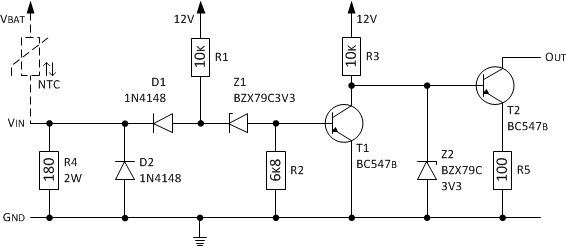
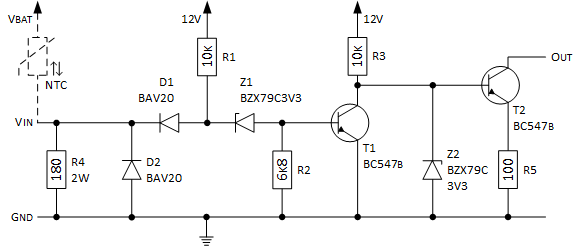
Update

diff --git a/pages/versorgungsspannung.md b/pages/versorgungsspannung.md
@@ -14,25 +14,27 @@ Für einfache Anwendungen reicht es, nur gegen zerstörerische Spannungen abzubl
 
 Um Störungen mit hohen Frequenzen von der Schaltung fernzuhalten, ist ganz vorne am Eingang ein Keramikkondensator von 1..10nF zwischen Versorgungsspannung und Masse sinnvoll, der diese Frequenzen dämpft. Um es noch _sauberer_ zu haben, könnte man anstatt den Sicherungswiderstand eine Drossel mit 47μH setzen.
 
-Um länger höhere Spannungen von der Schaltung fernzuhalten, wird eine Überspannungsschutzdiode (TVS-Diode, Transil) eingesetzt, die erst bei einer Spannung von 28,5V (Spannung für den [Jumpstart](https://en.wikipedia.org/wiki/Jump_start_(vehicle)) ist 26V und der [Load Dump](http://de.wikipedia.org/wiki/Load_Dump) wird mit 27V angesetzt) leitet und bei vollem Ableitstrom nicht mehr als die maximal erlaubte Spannung der Bauteile an die Schaltung lässt (das Maximum liegt bei 41,5V mit einem Stromimpuls von 14,4A siehe [Datenblatt](http://www.diodes.com/assets/Datasheets/ds21502.pdf)).
+Um länger höhere Spannungen von der Schaltung fernzuhalten, wird eine Überspannungsschutzdiode (TVS-Diode, Transil) vom Typ P6KE30A (Unidirektional) eingesetzt, die erst bei einer Spannung von 28,5V (Spannung für den [Jumpstart](https://en.wikipedia.org/wiki/Jump_start_(vehicle)) ist 26V und der [Load Dump](http://de.wikipedia.org/wiki/Load_Dump) wird mit 27V angesetzt) leitet und bei vollem Ableitstrom nicht mehr als die maximal erlaubte Spannung der Bauteile an die Schaltung lässt (das Maximum liegt bei 41,5V mit einem Stromimpuls von 14,4A, siehe Datenblatt: [P6KE.pdf](http://www.st.com/resource/en/datasheet/p6ke.pdf)).
 
-Eine Schaltung die zwar keine Prüfung nach ISO (7637-1 von 1990 für ein 12V-System) besteht, aber viele Faktoren bereits berücksichtigt, könnte wie folgt aussehen:
+Eine Schaltung die zwar keine Prüfung nach ISO (7637-1 von 1990 für ein 12V-System) besteht, aber ein paar Faktoren bereits berücksichtigt, könnte wie folgt aussehen:
 
 ![KFZ-Versorgungsspannung (gesamt)](../images/Versorgungsspannung.png)
 
-Die TVS-Diode P6KE30A (Unidirektional) hat eine Durchbruchspannung von 28,5V, leitet sicher bei 31,5V und begrenzt die maximale Spannung, wenn die Quelle mehr liefert. Nachfolgende Bauteile sollten bis zu ca. 35V vertragen (der dann abzuleitende Strom ist dann schon so hoch, dass der Sicherungswiderstand vorher _auslöst_). Bei Einsatz einer TVS-Diode kann der Keramikkondensator am Eingang ein 1nF/50V und der Elko ein Kondensator mit z.B. 100μF/50V sein. Da höhere Ströme durch die P6KE30A abfließen können, wurde die Diode 1N4003 ausgewählt, die für ein Strom If bis 1A genutzt werden kann. Zudem hat Sie eine Sperrspannung bis 200V und weist eine Durchlassspannung UF von maximal 1V auf.
+Die TVS-Diode P6KE30A hat eine Durchbruchspannung von 28,5V, leitet sicher bei 31,5V und begrenzt die maximale Spannung, wenn die Quelle mehr liefert. Nachfolgende Bauteile sollten bis zu ca. 35V vertragen (der dann abzuleitende Strom ist dann schon so hoch, dass der Sicherungswiderstand vorher _auslöst_). Bei Einsatz einer TVS-Diode kann der Keramikkondensator am Eingang ein 1nF/50V und der Elko ein Kondensator mit z.B. 100μF/50V sein. Da höhere Ströme durch die P6KE30A abfließen können, wurde die Diode BYV27-200 (Datenblatt: [BYV27-200.pdf](https://www.vishay.com/docs/86042/byv27.pdf)) ausgewählt, die für ein Strom If bis 2A genutzt werden kann. Zudem hat Sie eine Sperrspannung bis 200V und weist eine Durchlassspannung UF von maximal 1V auf.
 
 ![KFZ-Versorgungsspannung Abb. 2](../images/Versorgungsspannung_2.png)
 
-Eine Stabilisierung mittles Z-Diode (Datenblatt: [BZX79.pdf](http://www.nxp.com/documents/data_sheet/BZX79.pdf)) im Regelkreis und Transistor in Kollektorschaltung (Datenblatt: [BD139.pdf](http://www.onsemi.com/pub/Collateral/BD139-D.PDF)) ist einfach und ausreichend für die angeschlossenen Schaltungseinheiten. Der Spannungsausgang an Pin 9 stellt eine stabile Spannung bei wechselnden Laststrombedingungen zur Verfügung. Der maximal benötigte Ausgangsstrom an Pin 9 soll 200mA betragen. 
+Der Spannungsausgang an Pin 9 gibt nicht stabilisierte Spannung von ca. 12V aus. An Pin 7.1 steht eine stabile Spannung von ca. 5V bei wechselnden Laststrombedingungen zur Verfügung. Der maximal benötigte Ausgangsstrom an Pin 7.1 soll bis zu 20mA betragen. Eine Stabilisierung mittles Z-Diode (Datenblatt: [BZX79.pdf](http://www.nxp.com/documents/data_sheet/BZX79.pdf)) ist einfach und ausreichend für die angeschlossenen Schaltungseinheiten, die 5V benötigen. 
 
-Indem ein Teil der Ausgangsspannung über eine Regelschaltung bestehend aus Spannungsteiler R6 und R7, Transistor T1 und Z-Diode D34 geleitet wird, werden Spannungen größer 12,1V heruntergeregelt. Der Spannungsteiler dient zum Einstellen des Arbeitspunkts am Transistor T1 und gleichzeitig als Grundlast damit ein mindest Basis-Strom bzw. eine mindes Spannung von 0,7V an der  Basis-Emmiter-Strecke vom Kleinleistungstransistor T2 vorhanden ist. Die Leistungsaufnahme der Z-Diode und T1 kann gering gehalten werden. Am Transistor T2 können jedoch bis zu 23V (siehe oben) abfallen, daher ist bei einer maximalen Strombelastung von 200mA ein Transistor mit einer Leistung von mind. 1 Watt nötig.
+Indem ein Teil der Betriebsspannung am Widerstand R5 abfällt, werden Spannungen größer 5,1V heruntergeregelt. Die Leistungsaufnahme der Z-Diode kann gering gehalten werden. Am Vorwiderstand können jedoch bis zu 23V (siehe oben) abfallen, daher ist auch bei kleiner Strombelastung ein Widerstand mit einer Leistung von mind. 1 Watt nötig.
 
 ![KFZ-Versorgungsspannung Abb. 3](../images/Versorgungsspannung_3.png)
 
-Da die Regelschaltung beim _Versuch_, die Spannung zu stabilisieren, eine elektrische Welligkeit auf der Versorgung erzeugt, kommt ein zusätzlicher Entkopplungskondensator von 22μF/16V zum Einsatz, der kurze Lastspitzen abfängt und die Restwelligkeit der Ausgangsspannung reduziert.
+Da die Z-Diode beim _Versuch_ die Spannung zu stabilisieren, eine elektrische Welligkeit auf der Versorgung erzeugt, kommt ein zusätzlicher Entkopplungskondensator von 22μF/16V zum Einsatz, der kurze Lastspitzen abfängt und die Restwelligkeit der Ausgangsspannung reduziert.
 
-Die Reglerschaltung ist zudem ein Teil der Schutzmaßnahme gegen Überspannung für alle Eingänge mit entsprechender Dioden-Schutzschaltung gegen Plus. Sobald an einem externen Eingang eine Überspannung erzeugt wird, die über eine Schutzdiodenschaltung nach Plus oder gegen Masse geleitet wird (siehe Abschnitt Kontrollanzeige), fließt ggf. ein genügend schädlicher Strom, der dazu führen kann, dass eines der Halbleiter Schaden nimmt. Die Reglerschaltung sorgt dafür, dass alle Spannungen von externen Eingängen die größer als die Betriebsspannung +0,7V sind (12,1V + 0,7V = 12,8V), sicher abgeleitet werden. Die Strombegrenzung erfolgt durch den Eingangswiderstand des jeweiligen externen Einganges.
+![KFZ-Versorgungsspannung Abb. 4](../images/Versorgungsspannung_4.png)
+
+Die Z-Diode ist zudem ein Teil der Schutzmaßnahme gegen Überspannung für alle Eingänge mit entsprechender Dioden-Schutzschaltung gegen Plus. Sobald an einem externen Eingang eine Überspannung erzeugt wird, die über eine Schutzdiodenschaltung nach Plus oder gegen Masse geleitet wird (siehe Abschnitt Kontrollanzeige), fließt ggf. ein genügend schädlicher Strom, der dazu führen kann, dass eines der Halbleiter Schaden nimmt. Die Z-Diode sorgt dafür, dass alle Spannungen von externen Eingängen die größer als die Betriebsspannung +0,7V sind (5,1V + 0,7V = 5,8V), sicher abgeleitet werden. Die Strombegrenzung erfolgt durch den Eingangswiderstand des jeweiligen externen Einganges.
 
 ## Quellen und weiterführende Literatur
 
@@ -41,8 +43,8 @@ Die Reglerschaltung ist zudem ein Teil der Schutzmaßnahme gegen Überspannung f
 - Mikrocontroller.net; [12V KFZ Versorgungs-Schaltung aus de.dse-faq](https://www.mikrocontroller.net/topic/392585)
 - de.sci.electronics-FAQ; [F.23. Das KFZ-Bordnetz](http://www.dse-faq.elektronik-kompendium.de/dse-faq.htm#F.23)
 - Elektronik-Kompendium; [PROTECTION STANDARDS APPLICABLE TO AUTOMOBILES](http://www.elektronik-kompendium.de/public/schaerer/FILES/sgs_pulsetest_auto.pdf)
-- Elektronik-Kompendium; [Spannungsstabilisierung mit Z-Diode und Transistor (Kollektorschaltung)](https://www.elektronik-kompendium.de/sites/slt/0204131.htm)
-- Das InterNetzteil- und Konverter-Handbuch von Dipl.-Ing Jörg Rehrmann; [3.2.3 Der geregelte Laengsregler](http://www.joretronik.de/Web_NT_Buch/Kap3/Kapitel3.html#3.2.3)
+- Elektronik-Kompendium; [Spannungsstabilisierung mit Z-Diode](http://www.elektronik-kompendium.de/sites/slt/1012151.htm)
+- Das InterNetzteil- und Konverter-Handbuch von Dipl.-Ing Jörg Rehrmann; [3.1 Der Shunt-Regler](http://www.joretronik.de/Web_NT_Buch/Kap3/Kapitel3.html#3.1)
 
 ### Startseite
 Zum Anfang geht's [hier](../index.html).

diff --git a/pages/kontrollanzeige_1.md b/pages/kontrollanzeige_1.md
@@ -101,7 +101,7 @@ Eine solche Schaltung wird als (nicht-invertierender) [Schmitt-Trigger](https://
 
 Wird am Eingang die Spannung von 13V überschritten, geht der Differenzverstärker in die positive Sättigung und der Ausgang ist logisch _High_, bei unterschreiten der Spannung von 11,8V, geht er in die negative Sättigung und der Ausgang ist logisch _Low_.
 
-Zum Schutz vor positiven und negativen Spannungsspitzen sind zusätzlich Dioden vom Typ 1N4148 ampositiven Eingang des Differenzverstärkers eingesetzt. Der Kondensator C1 bildet zusammen mit R1 ein Tiefpass, damit keine Störsignale an der Basis vom Transistor T1 gelangen.
+Zum Schutz vor positiven und negativen Spannungsspitzen sind zusätzlich Dioden vom Typ BAV20 am positiven Eingang des Differenzverstärkers eingesetzt. Der Kondensator C1 bildet zusammen mit R1 ein Tiefpass, damit keine Störsignale an der Basis vom Transistor T1 gelangen.
 
 ## Quellen und weiterführende Literatur
 
@@ -112,6 +112,7 @@ Zum Schutz vor positiven und negativen Spannungsspitzen sind zusätzlich Dioden 
 - Wikipedia; [Starterbatterie](http://de.wikipedia.org/wiki/Starterbatterie#Wartung,_Pflege_und_Prüfung)
 - Wikipedia; [Konstantstromquelle](http://de.wikipedia.org/wiki/Konstantstromquelle#Mit_Bipolartransistor)
 - Mikrocontroller.net; [Unterspannungsabschaltung gesucht](http://www.mikrocontroller.net/topic/340319#3744991)
+- Siemens; Halbleiter-Schaltbeispiele Ausgabe April 1970; [5.2.3 Schaltverstärker mit Selbsthaltung](http://www.fingers-welt.de/info/siemens_schaltbeispiele_1970_1.pdf)
 
 ### Nächste Seite
 Weiter geht's mit [Öldruckkontrollanzeige](kontrollanzeige_2.html).

diff --git a/pages/kontrollanzeige_2.md b/pages/kontrollanzeige_2.md
@@ -50,7 +50,6 @@ Die gesamte Schaltung erhält noch die bereits verwendete Schaltstufe zur Anscha
 
 ### Links
 - Wikipedia; [Multivibrator](https://de.wikipedia.org/wiki/Multivibrator#Astabile_Kippstufe_mit_Transistoren)
-- Siemens; Halbleiter-Schaltbeispiele Ausgabe April 1970; [5.2.3 Schaltverstärker mit Selbsthaltung](http://www.fingers-welt.de/info/siemens_schaltbeispiele_1970_1.pdf)
 - Texas Instruments; Design and Application of Transistor Switching Circuits; [14 Pulse-generating and Pulse-shaping Networks](http://archive.org/details/DesignAndApplicationOfTransistorSwitchingCircuits/page/n285)
 
 ### Nächste Seite
